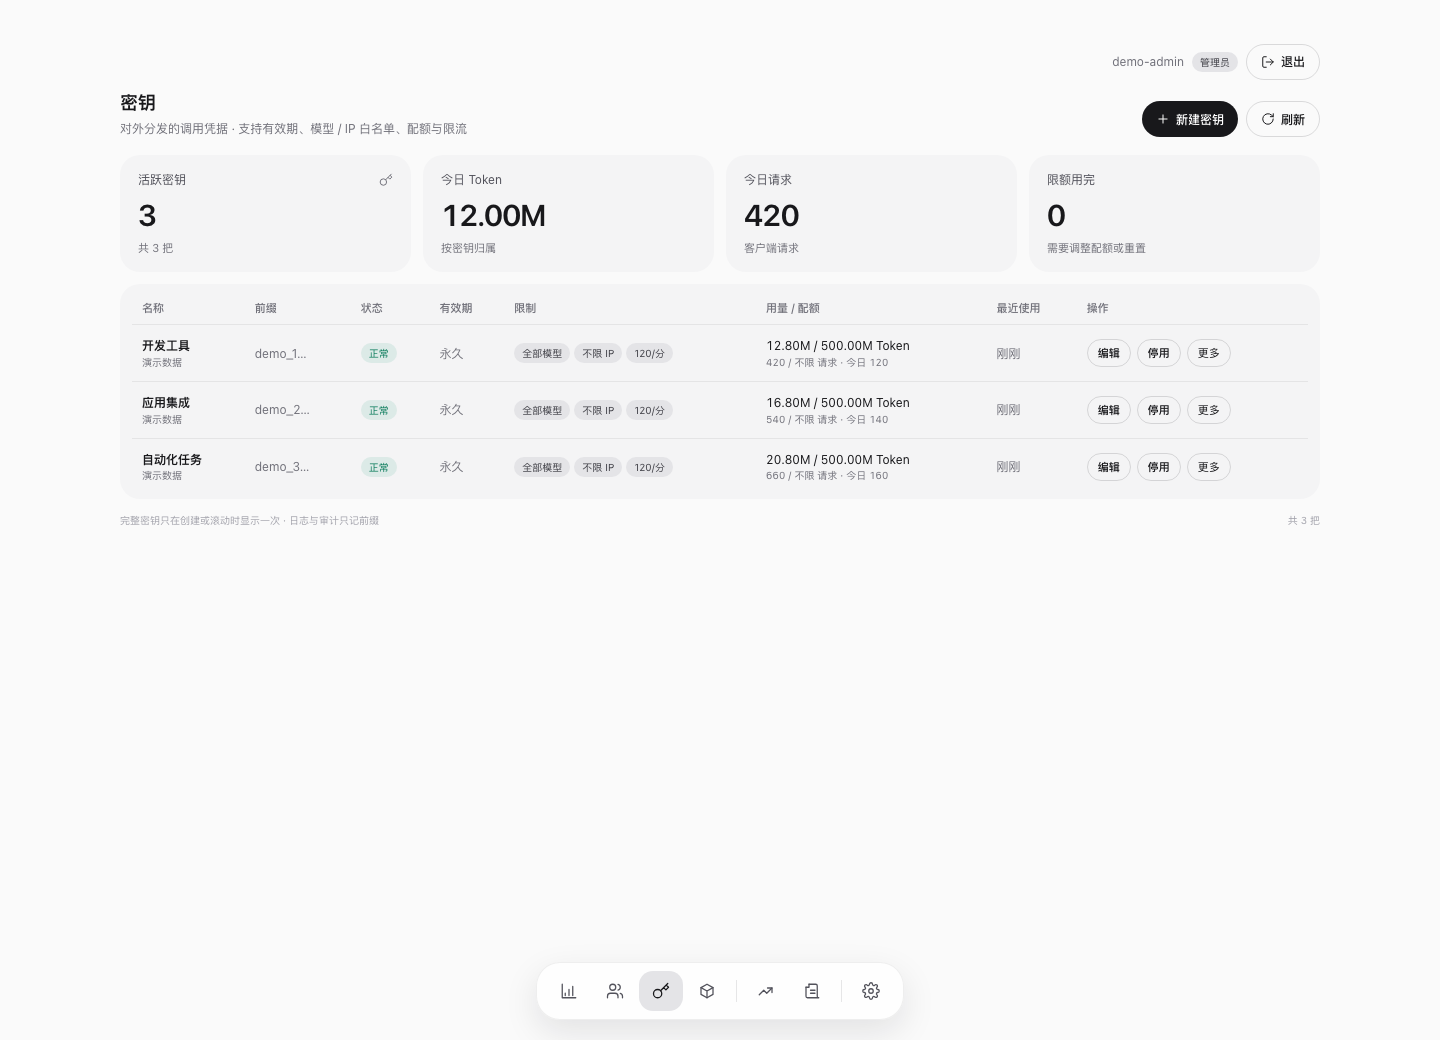
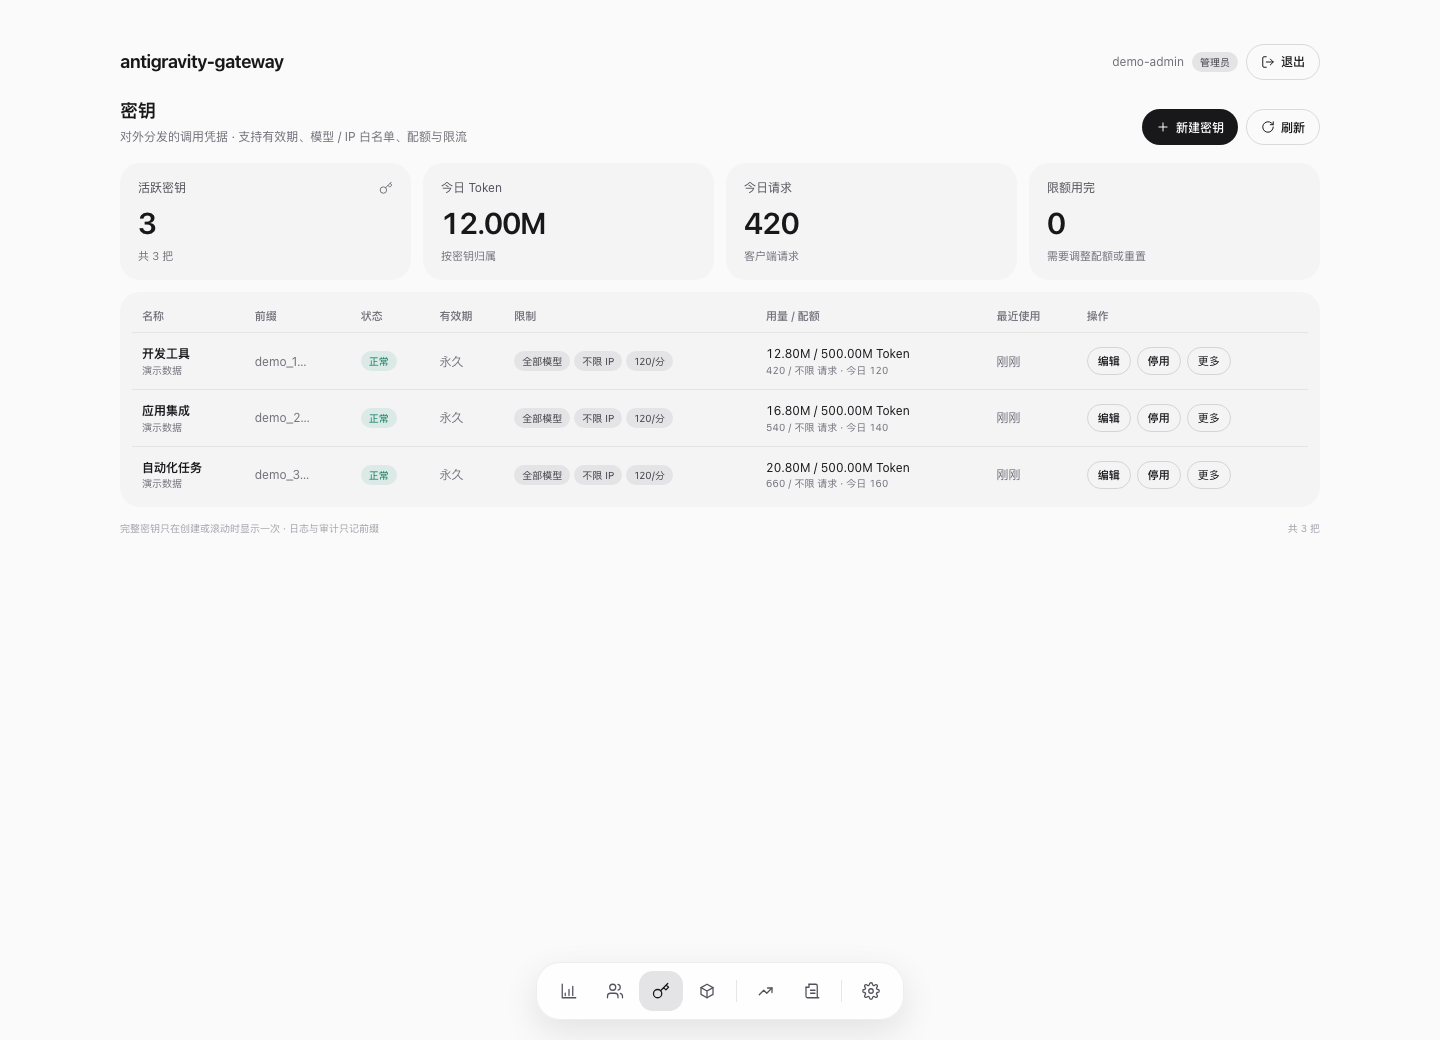
fix: add gateway title and stabilize backoff cancellation test

diff --git a/tests/agy-stream-recovery.test.js b/tests/agy-stream-recovery.test.js
@@ -21,11 +21,16 @@ function broken(parts, code = 'upstream_read_error', onError) {
     else { onError?.(); controller.error(Object.assign(new Error('controlled response read failure'), { code })); }
   } }, { highWaterMark: 0 }), { headers: { 'content-type': 'text/event-stream' } });
 }
-function fixture(t) {
+function fixture(t, { onDelay } = {}) {
   const directory = fs.mkdtempSync(path.join(os.tmpdir(), 'agy-stream-tests-'));
   t.after(() => fs.rmSync(directory, { recursive: true, force: true }));
   const requests = [], delays = [], original = global.setTimeout;
-  t.mock.method(global, 'setTimeout', (fn, ms, ...args) => { delays.push(ms); return original(fn, Math.min(ms, 2), ...args); });
+  t.mock.method(global, 'setTimeout', (fn, ms, ...args) => {
+    delays.push(ms);
+    const timer = original(fn, Math.min(ms, 2), ...args);
+    if (onDelay) queueMicrotask(() => onDelay(ms));
+    return timer;
+  });
   const provider = (fetch, options = {}) => new DirectAntigravityProvider({ sessionStore: new AgySessionStore({ directory }),
     accessToken: 'test-token', projectId: 'test-project', retryPolicy: 'agy',
     localAuth: { isConfigured: () => false, load: () => ({ sourcePath: 'managed-account:stream-test' }) }, ...options,
@@ -440,8 +445,11 @@ for (const mixed of [false, true]) test(`${mixed ? 'mixed HTTP and empty SSE' : 
 });
 
 test('cancelled empty-read backoff allocates no unsent logical request or model step', async t => {
-  const f = fixture(t), controller = new AbortController();
-  await assert.rejects(f.provider(async () => broken([], 'upstream_read_error', () => setImmediate(() => controller.abort())))
+  const controller = new AbortController();
+  // Cancel after retry sleep has installed its listener. A setImmediate raced
+  // the fixture's shortened timer when the CI event loop was under load.
+  const f = fixture(t, { onDelay: () => controller.abort() });
+  await assert.rejects(f.provider(async () => broken([], 'upstream_read_error'))
     .send({ messages: f.messages }, model, { sessionId: 's', signal: controller.signal }), { name: 'AbortError' });
   assert.deepEqual(f.requests.map(step), [1]);
   const saved = JSON.parse(fs.readFileSync(path.join(f.directory, fs.readdirSync(f.directory).find(n => n.endsWith('.json')))));

diff --git a/manager/web/components/shell.tsx b/manager/web/components/shell.tsx
@@ -16,13 +16,16 @@ export function Shell({ children }: { children: React.ReactNode }) {
   return (
     <>
       <div className="wrap">
-        <div className="user-menu" style={{ justifyContent: 'flex-end', marginBottom: 10 }}>
+        <header className="app-header">
+          <a className="app-title" href={`${BASE_PATH}/dashboard/`}>antigravity-gateway</a>
+          <div className="user-menu">
           <span>{me?.username || ''}</span>
           {me?.role ? <span className="badge">{me.role === 'admin' ? '管理员' : '只读'}</span> : null}
           <button className="btn ghost" type="button" onClick={handleLogout}>
             <LogOutIcon size={14} />退出
           </button>
-        </div>
+          </div>
+        </header>
         {children}
       </div>
       <Dock />

diff --git a/manager/web/app/globals.css b/manager/web/app/globals.css
@@ -168,6 +168,9 @@ a { color: inherit; }
 .chart { display: block; width: 100%; height: auto; }
 .axis { font-size: 9px; fill: #a1a1aa; }
 
+.app-header { display: flex; flex-wrap: wrap; align-items: center; gap: 10px 16px; margin-bottom: 18px; }
+.app-title { color: var(--ink); font-size: 18px; font-weight: 650; letter-spacing: -.4px; text-decoration: none; white-space: nowrap; }
+.app-header .user-menu { margin-left: auto; }
 .user-menu { display: flex; align-items: center; gap: 8px; font-size: 12px; color: var(--muted); }
 .user-menu b { color: var(--ink); font-weight: 500; }
 

diff --git a/manager/web/app/layout.tsx b/manager/web/app/layout.tsx
@@ -3,7 +3,7 @@ import './globals.css';
 import { Providers } from '@/components/providers';
 
 export const metadata: Metadata = {
-  title: 'agy-manager',
+  title: 'antigravity-gateway · 管理后台',
   description: 'Antigravity Gateway 管理后台',
   robots: { index: false, follow: false },
   icons: { icon: `${process.env.NEXT_PUBLIC_BASE_PATH || ''}/favicon.svg` }

diff --git a/CHANGELOG.md b/CHANGELOG.md
@@ -6,6 +6,7 @@
 - Include the independent `manager/` application: dashboard, accounts/proxies, Gemini/Claude-GPT/Argon quota groups, usage/cache metrics, request/diagnostic/audit logs, model discovery/settings, API keys and password settings.
 - Keep inference, credentials, key validation and scheduling in the proxy core. The separate Node management service accesses a loopback versioned API; Next.js exports static pages under `/admin`.
 - Add compact two-decimal K/M/B metrics, thin bars, smooth curves and hover/tap chart details, unified masked-email labels, CSRF/Origin checks, conditional reads and bounded log scans.
+- Match dashboard metric icons to their meaning and add the antigravity-gateway application title. Make the cancelled-backoff test deterministic under loaded CI timers.
 - Add current-build screenshots with synthetic data and independent installation documentation. npm core installs do not pull frontend build dependencies.
 
 - Exclude the four unused tab/chat internal IDs and the retired Gemini 2.5 Pro from discovery listings and exported catalogs; model smoke tests use the upstream default output configuration instead of an invalid universal 32-token cap.
